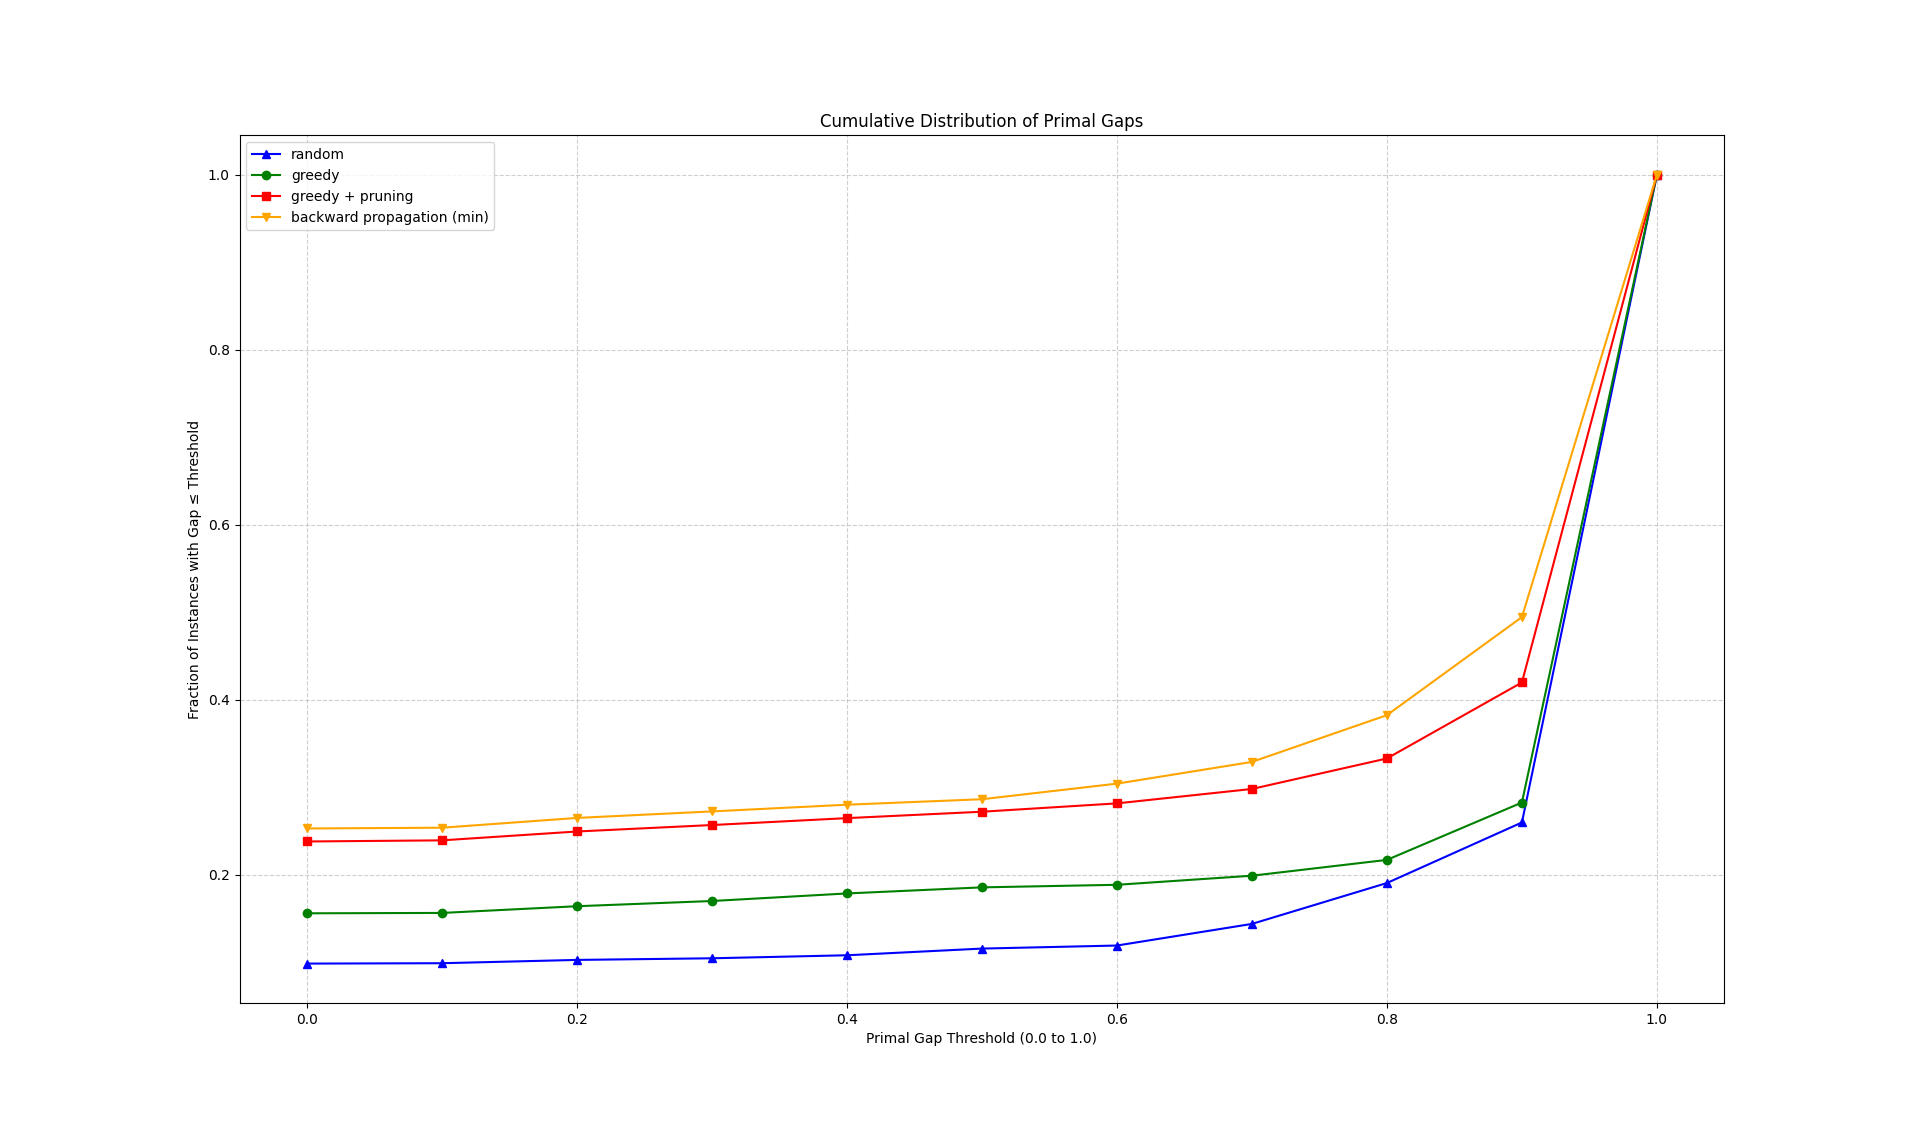
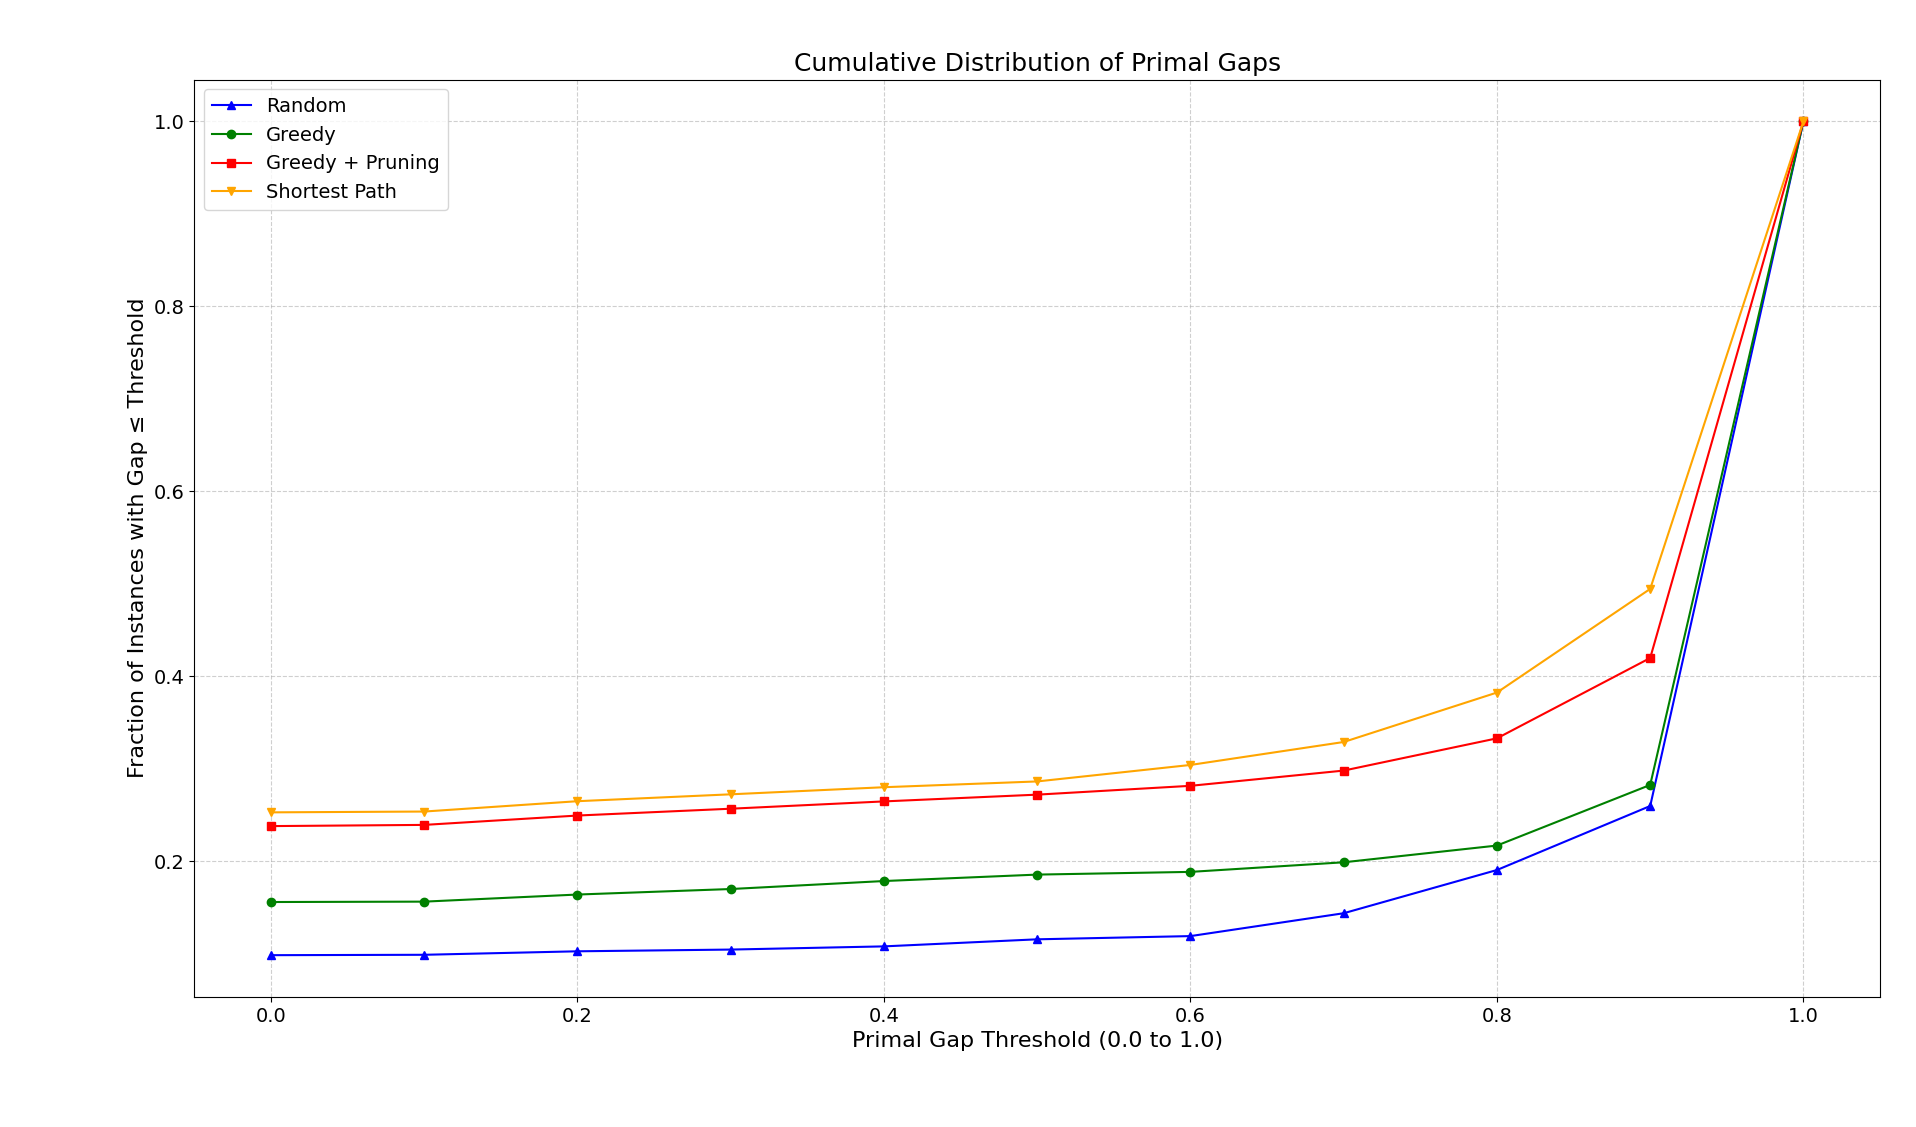
add algs0124 evaluation

diff --git a/thesis/chapters/results.tex b/thesis/chapters/results.tex
@@ -34,13 +34,35 @@ the number of instances it was able to solve within the time limit.
 \end{table}
 
 By simply examining this table, we can identify the most effective algorithms.
-The Lookahead process is computationally expensive, resulting in approximately one-third of the instances not being solved.
-In contrast, the efficient implementation of the Shortest Path heuristic appears to be the most capable,
+The lookahead process is computationally expensive, resulting in approximately one-third of the instances not being solved.
+In contrast, the efficient implementation of the shortest path heuristic appears to be the most capable,
 solving the highest number of instances.
 
 \section{Random vs Greedy vs Greedy + Pruning vs Shortest Path}
 This section presents an evaluation of four planning strategies, ranging from uninformed to increasingly informed approaches:
-Random, Greedy, Greedy + Pruning, and Shortest Path.
-Random and Greedy exhibit similar efficiency, as both are able to solve a large number of instances. Greedy + Pruning is
-slightly slower but employs a strategy with the potential to yield higher-quality solutions. Ultimately, the Shortest Path approach
+random, greedy, greedy + pruning, and shortest path.
+Random and greedy exhibit similar efficiency, as both are able to solve a large number of instances. Greedy + pruning is
+slightly slower but employs a strategy with the potential to yield higher-quality solutions. Ultimately, the shortest path approach
 solves the highest number of instances. The next step is to evaluate the quality of the solutions produced by each strategy.
+Figure \ref{fig:rgps} presents the cumulative distribution plot for the evaluated algorithms.
+
+\begin{figure}[h!]
+	\centering
+	\includegraphics[width=\textwidth]{images/algs0124.png}
+	\caption{Cumulative distribution plot for Random, Greedy, Greedy + Pruning, and Shortest Path strategies.}
+	\label{fig:rgps}
+\end{figure}
+
+For instance, to better interpret the plot, consider the greedy strategy: the point on its curve corresponding to
+a primal gap threshold of 60\% is close to 20\%. This indicates that it achieves a solution with a primal gap less than
+or equal to 60\% in approximately 20\% of the problem instances.
+Conversely, the shortest path strategy found the best known solution (i.e., a primal gap of 0\%) in approximately
+25\% of the instances.
+Now that the plot has been properly explained, it is possible to identify the most effective heuristic.
+The curve that remains above all the others represents the best-performing strategy, as it indicates that the corresponding
+algorithm consistently found solutions within the primal gap thresholds for a larger number of instances.
+As expected, random and greedy stategies typically do not produce high-quality plans. Pruning the useless actions appears to be
+an effective strategy, as it allows the planner to discard actions that are known to be unhelpful whenever multiple
+options with the same cost are available.
+Shortest Path builds on pruning by also estimating the distance to the goal for each action, resulting in a more
+informed and effective selection of actions to include in the plan.

diff --git a/thesis/chapters/heuristics.tex b/thesis/chapters/heuristics.tex
@@ -94,6 +94,8 @@ Algorithm \ref{alg:greedy} shows the pseudocode for this algorithm. The omitted 
 \end{algorithm}
 
 Instead of randomly choosing the next action to apply, here the action with minimum cost is always selected.
+For this and all subsequent algorithms, if multiple eligible actions share the same minimum (heuristic) cost,
+one of them is selected at random.
 
 \section{Revised Max Heuristic}
 \label{sec:hmax}
@@ -186,7 +188,7 @@ When selecting the next action to apply, any action with an infinite cost will b
 and the one with the lowest heuristic cost among the remaining options will be chosen.
 As previously mentioned, any action that can be applied from
 the current state will always have a heuristic cost equal to its actual cost.
-Therefore, this algorithm can be seen as a Greedy + Pruning approach: it selects the next action based on the action's cost,
+Therefore, this algorithm can be seen as a greedy + pruning approach: it selects the next action based on the action's cost,
 while discarding useless actions.
 To observe the true behavior of the proposed algorithm, it should ideally be used within the context of the \verb|A*| algorithm,
 a well-known search strategy that combines actual cost from the start with a heuristic estimate to the goal.
@@ -196,7 +198,7 @@ required to reach node $n$, and $h(n)$ is the estimated cost to reach the goal s
 However, since \verb|A*| was not implemented in this thesis, an alternative approach was used to evaluate the algorithm's actual performance.
 
 \section{Max Heuristic + Lookahead}
-As mentioned in the previous section, the presented algorithm can be considered a Greedy + Pruning approach,
+As mentioned in the previous section, the presented algorithm can be considered a greedy + pruning approach,
 since the full potential of the heuristic cannot be exploited|the heuristic cost of the applicable actions is always equal
 to the actions' actual cost.
 To evaluate its performance, a new version of the heuristic is proposed.
@@ -251,7 +253,7 @@ and then applies only the action that appears to be the most convenient.
 
 \section{Novel Heuristic}
 In this section, a completely new approach is introduced. As discussed in Section \ref{sec:hmax},
-the modified version of the max heuristic ultimately behaves like a Greedy + Pruning algorithm, limiting its effectiveness.
+the modified version of the max heuristic ultimately behaves like a greedy + pruning algorithm, limiting its effectiveness.
 Here, we aim to use the same backward propagation mechanism, but with a different heuristic cost assigned to each action.
 The core idea is to assign each action a cost that estimates its actual distance to the goal.
 Specifically, the cost assigned to an action corresponds to the cost of the \textit{shortest path} to reach a fact in the goal state.
